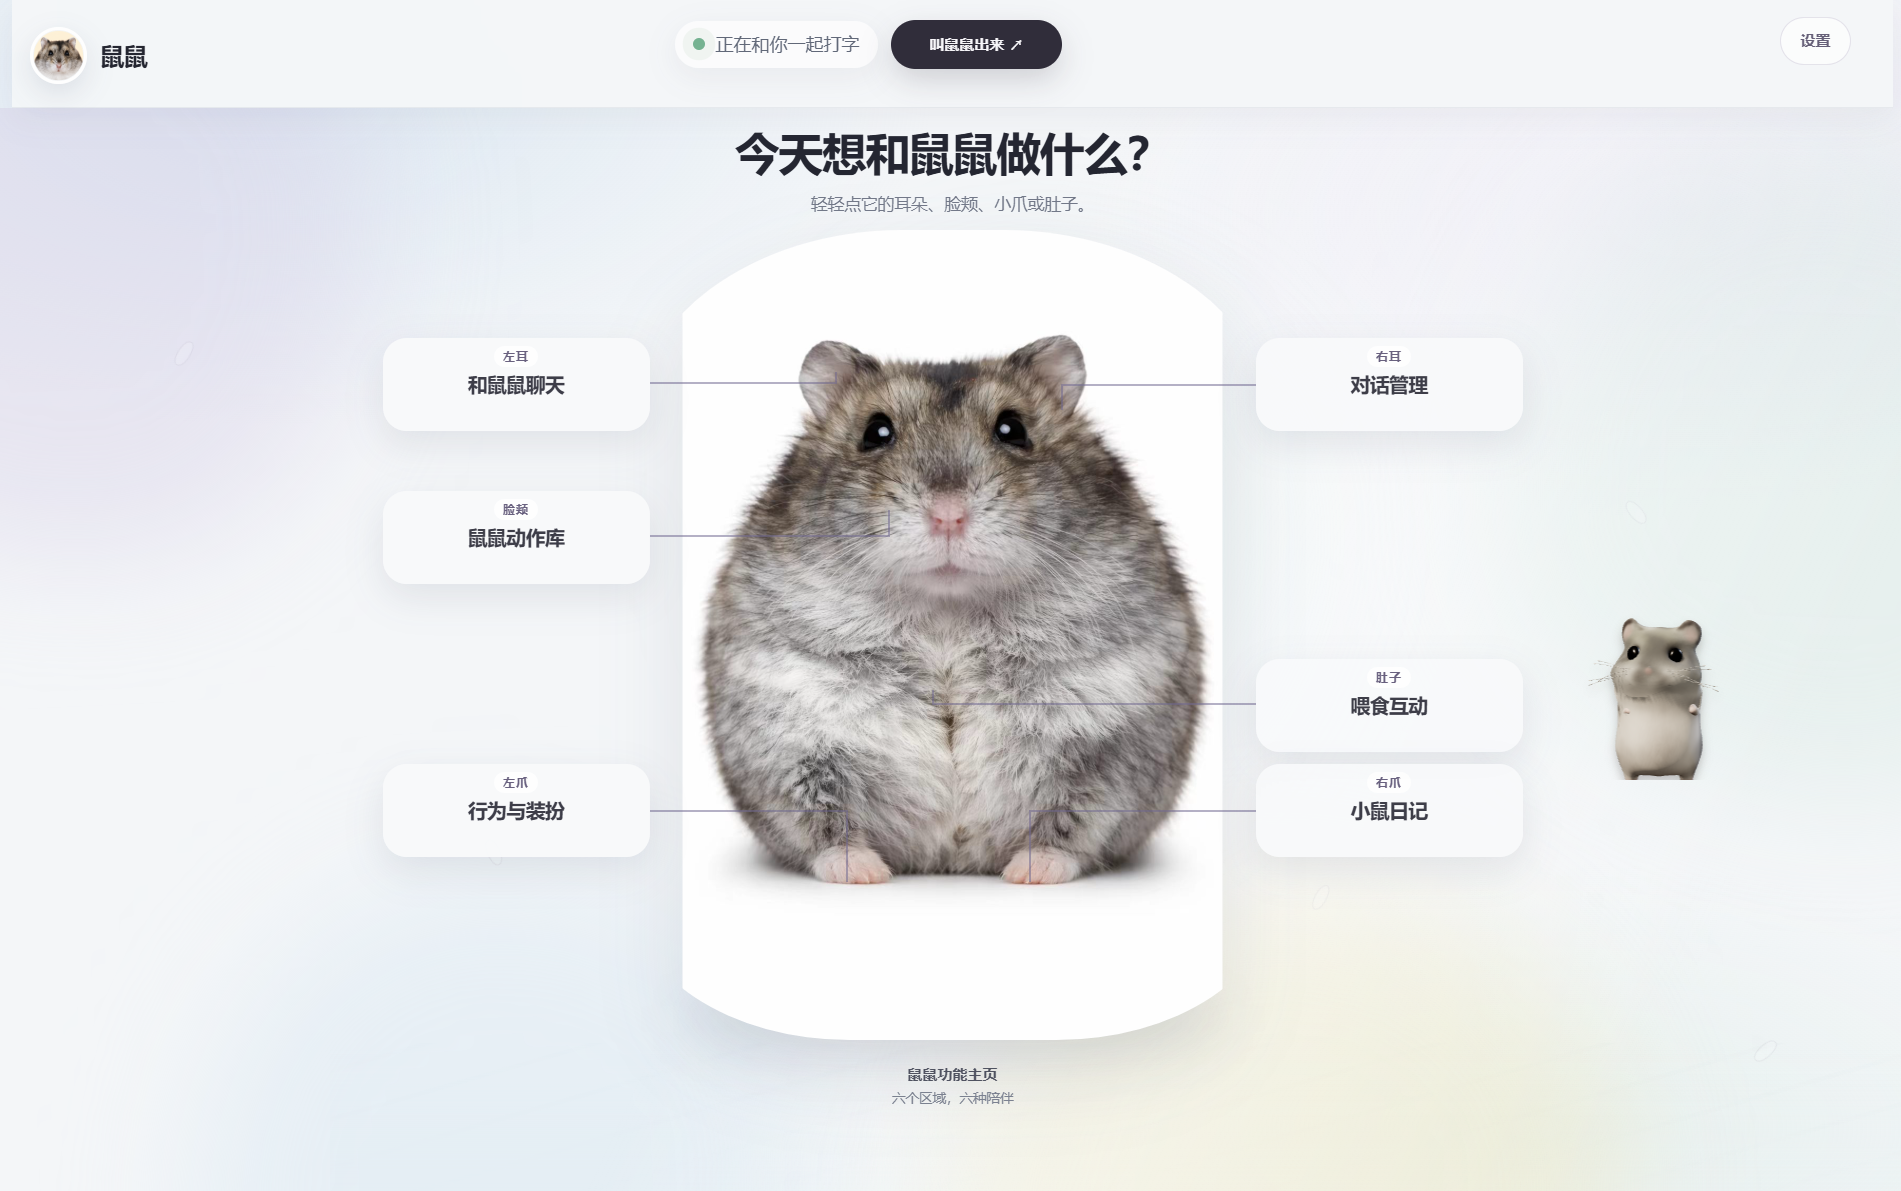
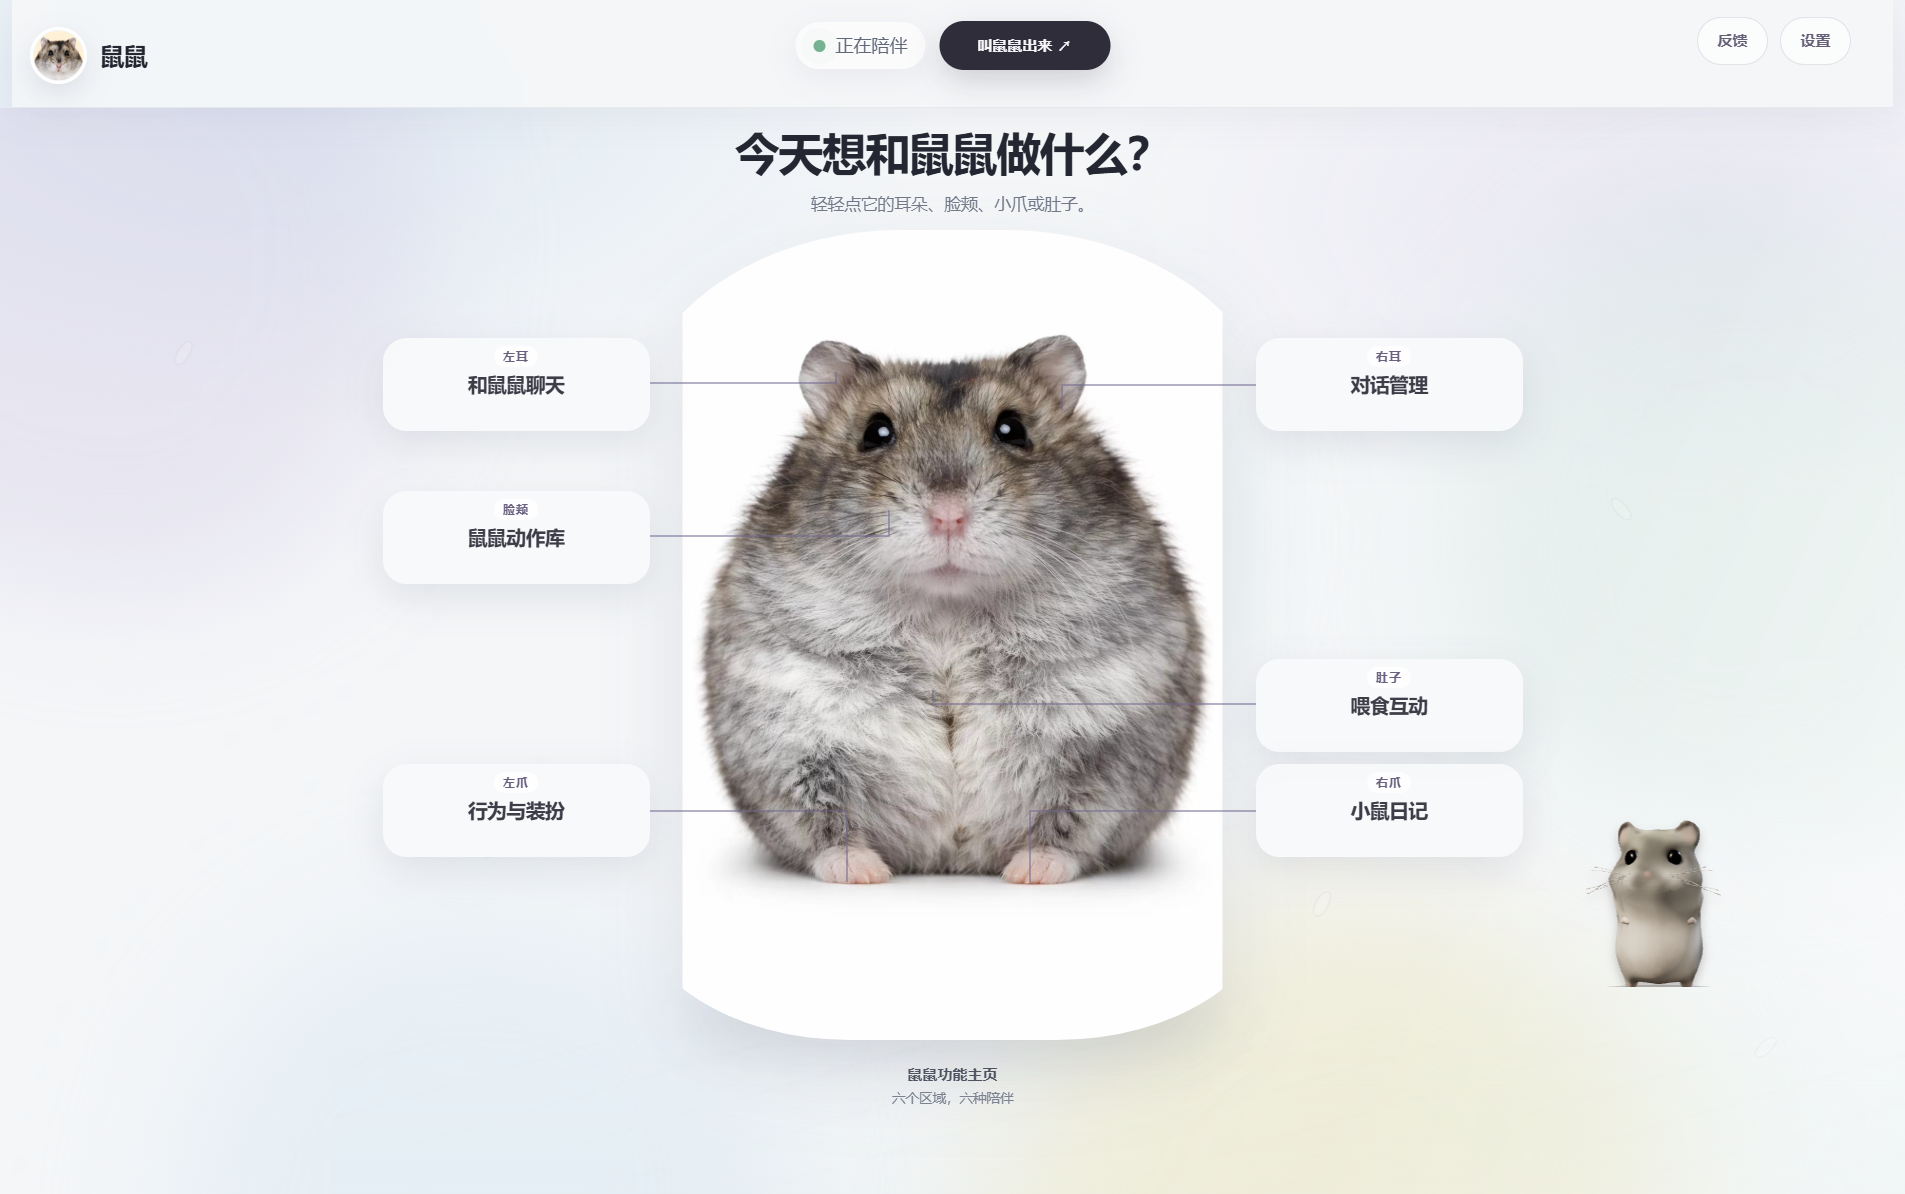
更新主页展示并修复多语言顶栏 / Refresh home preview and fix multilingual header
用新版主页截图替换 README 的旧展示图，并修复反馈与设置按钮在英文和西班牙语下因文字变长而重叠的问题。

Replace the old README home preview with the latest screenshot and prevent the Feedback and Settings buttons from overlapping when English or Spanish labels are longer.

diff --git a/src/main.js b/src/main.js
@@ -348,7 +348,8 @@ app.whenReady().then(() => {
           const pawToggle=document.querySelector('#pawTrailEnabled'),pawOriginal=pawToggle.checked;pawToggle.checked=false;pawToggle.dispatchEvent(new Event('change',{bubbles:true}));await new Promise(resolve=>setTimeout(resolve,100));document.querySelectorAll('.paw-trail').forEach(node=>node.remove());document.dispatchEvent(new PointerEvent('pointermove',{clientX:610,clientY:610,pointerType:'mouse'}));await new Promise(resolve=>setTimeout(resolve,80));const pawDisabledStopsTrail=document.querySelectorAll('.paw-trail').length===0;pawToggle.checked=pawOriginal;pawToggle.dispatchEvent(new Event('change',{bubbles:true}));await new Promise(resolve=>setTimeout(resolve,100));
           const movingBlob=document.querySelector('.background-motion-layer i'),backgroundTransformA=getComputedStyle(movingBlob).transform;await new Promise(resolve=>setTimeout(resolve,420));const backgroundTransformB=getComputedStyle(movingBlob).transform,backgroundActuallyMoves=backgroundTransformA!==backgroundTransformB;
           const clickToggle=document.querySelector('#clickEffectEnabled'),clickOriginal=clickToggle.checked;clickToggle.checked=false;clickToggle.dispatchEvent(new Event('change',{bubbles:true}));await new Promise(resolve=>setTimeout(resolve,100));document.querySelectorAll('.click-hamster-burst').forEach(node=>node.remove());document.dispatchEvent(new PointerEvent('pointerdown',{clientX:640,clientY:620,pointerType:'mouse',button:0}));await new Promise(resolve=>setTimeout(resolve,50));const clickDisabledStopsEffect=document.querySelectorAll('.click-hamster-burst').length===0;clickToggle.checked=clickOriginal;clickToggle.dispatchEvent(new Event('change',{bubbles:true}));await new Promise(resolve=>setTimeout(resolve,100));
-          const language=document.querySelector('#interfaceLanguage'),languageOriginal=language.value;language.value='en';language.dispatchEvent(new Event('change',{bubbles:true}));await new Promise(resolve=>setTimeout(resolve,100));const englishApplied=document.querySelector('#effectSettingsButton').textContent==='Settings'&&document.documentElement.lang==='en'&&document.querySelector('#homeBrand b').textContent==='Hamster'&&document.querySelector('.photo-map .hamster-tile b').textContent.includes('Hamster');language.value='es';language.dispatchEvent(new Event('change',{bubbles:true}));await new Promise(resolve=>setTimeout(resolve,100));const spanishApplied=document.querySelector('#effectSettingsButton').textContent==='Ajustes'&&document.documentElement.lang==='es'&&document.querySelector('#homeBrand b').textContent==='Hámster'&&document.querySelector('.photo-map .hamster-tile b').textContent.includes('Hámster');language.value=languageOriginal;language.dispatchEvent(new Event('change',{bubbles:true}));await new Promise(resolve=>setTimeout(resolve,100));
+          const cornerButtonsDoNotOverlap=()=>{const feedback=document.querySelector('#feedbackButton').getBoundingClientRect(),settingsButton=document.querySelector('#effectSettingsButton').getBoundingClientRect();return feedback.right+5<=settingsButton.left};
+          const language=document.querySelector('#interfaceLanguage'),languageOriginal=language.value;language.value='en';language.dispatchEvent(new Event('change',{bubbles:true}));await new Promise(resolve=>setTimeout(resolve,100));const englishApplied=document.querySelector('#effectSettingsButton').textContent==='Settings'&&document.documentElement.lang==='en'&&document.querySelector('#homeBrand b').textContent==='Hamster'&&document.querySelector('.photo-map .hamster-tile b').textContent.includes('Hamster'),englishCornerButtonsClear=cornerButtonsDoNotOverlap();language.value='es';language.dispatchEvent(new Event('change',{bubbles:true}));await new Promise(resolve=>setTimeout(resolve,100));const spanishApplied=document.querySelector('#effectSettingsButton').textContent==='Ajustes'&&document.documentElement.lang==='es'&&document.querySelector('#homeBrand b').textContent==='Hámster'&&document.querySelector('.photo-map .hamster-tile b').textContent.includes('Hámster'),spanishCornerButtonsClear=cornerButtonsDoNotOverlap();language.value=languageOriginal;language.dispatchEvent(new Event('change',{bubbles:true}));await new Promise(resolve=>setTimeout(resolve,100));
           document.dispatchEvent(new PointerEvent('pointermove',{clientX:180,clientY:180,pointerType:'mouse'}));
           document.dispatchEvent(new PointerEvent('pointermove',{clientX:230,clientY:210,pointerType:'mouse'}));
           document.dispatchEvent(new PointerEvent('pointerdown',{clientX:260,clientY:235,pointerType:'mouse',button:0}));
@@ -357,7 +358,7 @@ app.whenReady().then(() => {
           await new Promise(resolve=>setTimeout(resolve,1500));
           visualEffects.remaining={paws:document.querySelectorAll('.paw-trail').length,bursts:document.querySelectorAll('.click-hamster-burst').length};
           visualEffects.cleaned=visualEffects.remaining.paws===0&&visualEffects.remaining.bursts===0;
-          return {results,returnedHome,profileOpened,profilePushesContent,profileClosed,settingsPageOpened,feedbackPageOpened,emptyFeedbackBlocked,filledFeedbackEnabled,centeredActions,effectControls,pawDisabledStopsTrail,clickDisabledStopsEffect,englishApplied,spanishApplied,labelsInitiallyClear,backgroundActuallyMoves,visualEffects};
+          return {results,returnedHome,profileOpened,profilePushesContent,profileClosed,settingsPageOpened,feedbackPageOpened,emptyFeedbackBlocked,filledFeedbackEnabled,centeredActions,effectControls,pawDisabledStopsTrail,clickDisabledStopsEffect,englishApplied,spanishApplied,englishCornerButtonsClear,spanishCornerButtonsClear,labelsInitiallyClear,backgroundActuallyMoves,visualEffects};
         })()`);
         fs.writeFileSync(process.env.DASHBOARD_TEST_REPORT, JSON.stringify(report, null, 2));
       }

diff --git a/src/dashboard.css b/src/dashboard.css
@@ -713,8 +713,8 @@ body:not([data-current-panel="home"]) main>.grid{min-height:calc(100vh - 88px)!i
 body[data-current-panel="home"] main>header .header-actions{position:absolute!important;left:50%!important;right:auto!important;top:14px!important;transform:translateX(-50%)!important;padding:0!important;justify-self:auto!important;z-index:3!important}
 .feedback-button{padding:9px 13px;border:1px solid rgba(111,103,143,.17);border-radius:999px;background:rgba(255,255,255,.62);color:#666078;font:inherit;font-size:10px;font-weight:700;cursor:pointer;transition:background .18s,color .18s,transform .18s}
 .feedback-button:hover{background:#e7f3f0;color:#4c6f69;transform:translateY(-1px)}
-body[data-current-panel="home"] main>header .feedback-button{position:absolute!important;top:11px!important;right:88px!important;z-index:4!important}
-body[data-current-panel="home"] main>header .effect-settings-button{right:28px!important}
+.corner-actions{position:absolute;top:11px;right:28px;z-index:4;display:flex;align-items:center;justify-content:flex-end;gap:8px;max-width:calc(50% - 190px);white-space:nowrap}
+.corner-actions .feedback-button,.corner-actions .effect-settings-button{position:static!important;inset:auto!important;flex:0 0 auto!important;margin:0!important;white-space:nowrap}
 body:not([data-current-panel="home"]) main>header .feedback-button{display:none!important}
 body[data-current-panel="feedback"] main>header .effect-settings-button{display:none!important}
 .feedback-page{max-width:940px!important;margin:0 auto!important;padding:28px!important;border-radius:24px!important;background:linear-gradient(145deg,rgba(251,251,255,.96),rgba(244,250,248,.94))!important;box-shadow:0 18px 44px rgba(72,83,108,.13)!important}
@@ -723,4 +723,5 @@ body[data-current-panel="feedback"] main>header .effect-settings-button{display:
 .feedback-field{position:relative}.feedback-field textarea,.feedback-field input{width:100%;border:1px solid #dce1ea;border-radius:14px;background:rgba(255,255,255,.82);color:#424957;font:inherit;font-size:12px;padding:13px 14px;outline:0;resize:vertical}.feedback-field textarea{min-height:138px;padding-bottom:30px}.feedback-field textarea:focus,.feedback-field input:focus{border-color:#aaa5c7;box-shadow:0 0 0 3px rgba(126,118,158,.11)}.feedback-field small{position:absolute;right:13px;bottom:10px;color:#9096a3;font-size:9px}
 .feedback-attachment{display:grid;grid-template-columns:1fr auto;align-items:center;gap:12px;padding:14px 16px;border:1px dashed #cfd7e2;border-radius:16px;background:rgba(235,244,244,.57)}.feedback-attachment b,.feedback-attachment span{display:block}.feedback-attachment b{font-size:11px;color:#4e5966}.feedback-attachment span{margin-top:4px;font-size:9px;color:#818895}.feedback-attachment button{border:1px solid #cdd9dc;border-radius:12px;background:#fff;color:#50736f;padding:9px 13px;font:inherit;font-size:10px;font-weight:700;cursor:pointer}.feedback-attachment ul{grid-column:1/-1;display:flex;gap:7px;flex-wrap:wrap;margin:0;padding:0;list-style:none}.feedback-attachment li{padding:5px 8px;border-radius:10px;background:#fff;color:#6e7682;font-size:9px}
 .feedback-actions{display:flex;align-items:center;justify-content:flex-end;gap:9px;margin-top:2px}.feedback-actions p{margin-right:auto;color:#858c99;font-size:10px}.feedback-actions button{min-width:104px;min-height:40px;border:0;border-radius:999px;padding:9px 15px;font:inherit;font-size:10px;font-weight:700;cursor:pointer}.feedback-secondary{border:1px solid #d9dcea!important;background:#fff!important;color:#6c6682!important}.feedback-actions button[type="submit"]{background:#6f678f;color:#fff;box-shadow:0 8px 18px rgba(82,75,111,.18)}.feedback-actions button[type="submit"]:disabled{background:#e4e5e9;color:#a3a7af;box-shadow:none;cursor:not-allowed}
-@media(max-width:780px){body[data-current-panel="home"] main>header .feedback-button{right:66px!important;padding:8px 9px}.feedback-types{grid-template-columns:1fr 1fr}.feedback-page{padding:18px!important}.feedback-actions{flex-wrap:wrap}.feedback-actions p{width:100%;margin:0}.feedback-attachment{grid-template-columns:1fr}.feedback-attachment button{justify-self:start}}
+@media(max-width:980px){.corner-actions{right:14px;gap:6px;max-width:calc(50% - 150px)}.corner-actions .feedback-button,.corner-actions .effect-settings-button{padding:8px 10px!important}}
+@media(max-width:780px){.corner-actions{right:12px;max-width:calc(100% - 150px)}.feedback-types{grid-template-columns:1fr 1fr}.feedback-page{padding:18px!important}.feedback-actions{flex-wrap:wrap}.feedback-actions p{width:100%;margin:0}.feedback-attachment{grid-template-columns:1fr}.feedback-attachment button{justify-self:start}}
